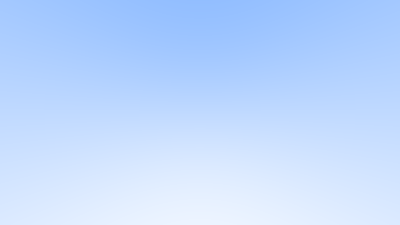
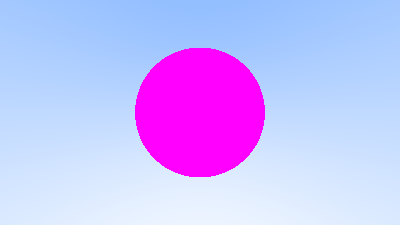
added a sphere to the scene

Changed region(s): [[0.33, 0.1867, 0.66, 0.8089]]

diff --git a/src/scenes/ray_sphere.rs b/src/scenes/ray_sphere.rs
@@ -1,0 +1,97 @@
+use crate::math;
+use crate::vec3::{Color, Point3, Vec3};
+use crate::ray::Ray;
+use image::ImageBuffer;
+
+pub fn ray_sphere() -> ImageBuffer<image::Rgb<u8>, Vec<u8>> {
+    let aspect_ratio = 16./9.;
+    let image_width: u32 = 400;
+    
+    // calc img height, it has to be at least 1 px
+    let image_height = (image_width as f32 / aspect_ratio) as u32;
+    let image_height = if image_height > 0 { image_height } else { 1 };
+
+
+    // Camera
+    // real aspect ratio differs because of flooring when converting to a u32
+    let real_aspect_ratio = image_width as f32 / image_height as f32;
+    let viewport_height = 2.0f32;
+    // 
+    let viewport_width = viewport_height * (real_aspect_ratio);
+    let focal_length = 1.0f32;
+    let camera_pos = Point3::new(0., 0., 0.);
+
+    // direction to render pixels in
+    let viewport_x = Vec3::new(viewport_width, 0., 0.);
+    let viewport_y = Vec3::new(0., -viewport_height, 0.); // invert viewport height to start top and go to bottom
+
+    // distance between pixel center points
+    let px_dx = viewport_x / image_width as f32;
+    let px_dy = viewport_y / image_height as f32;
+
+    // calc the location of the top left pixel
+    let viewport_top_left = camera_pos - Vec3::new(0., 0., focal_length) - viewport_x/2. - viewport_y/2.;
+    let px_top_left = viewport_top_left + 0.5 * (px_dx + px_dy);
+
+    let mut imgbuf  = ImageBuffer::new(image_width, image_height);
+
+    for (x, y, px) in imgbuf.enumerate_pixels_mut() {
+        let px_center = px_top_left + x as f32 * px_dx + y as f32 * px_dy;
+        let ray_direction = px_center - camera_pos;
+        let ray = Ray::new(camera_pos,ray_direction);
+
+        let color = ray_color(&ray);
+        *px = image::Rgb(color.to_rgb());
+    }
+
+    imgbuf
+}
+
+fn ray_color(ray: &Ray) -> Color {
+    if hit_sphere(&Point3::new(0., 0., 1.0), 0.5, ray) {
+        return Color::new(1., 0., 1.);
+    }
+    
+    // background color
+    let unit_direction = ray.direction().unit();
+    let scale = 0.5 * (unit_direction.y() + 1.); // blend in the y axis, midpoint halfway down
+
+    //             // white color                           ligh blue color
+    (1. - scale) * Color::new(1., 1., 1.) + scale * Color::new(0.5, 0.7, 1.)
+}
+
+fn hit_sphere(center: &Point3, radius: f32, ray: &Ray) -> bool {
+    
+    // Eq for sphere is x^2 + y^2 + z^2 = r^2
+    // To put the sphere in an arbitrary point (C) in space is :
+    // (C_x - x)^2 + (C_y - y)^2 + (C_z - z)^2 = r^2
+    // This can be expressed in vector form:
+    // (C - P).(C - P) = r^2
+    // Where C is the center of the sphere and P is the point of origin 
+    // of the ray. We can cast the ray with P(t) = Q + td (Q = origin which is the camera, 
+    // d is direction) to get to:
+    // (C − (Q + td)).(C − (Q + td)) = r^2
+    // This can be arranged to a quardatic equation:
+    // t^2d.d − 2td.(C − Q) + (C − Q).(C − Q) − r^2 = 0
+    // Because we want to know t which gives us the distance from Q where the ray intersects
+    // the sphere, we can extract the constants:
+    // a = d.d
+    // b = -2d.(C - Q)
+    // c = (C - Q).(C - Q) - r^2
+    // Where:
+    // d -> direction of the ray
+    // Q -> origin of the ray
+    // C -> center point of the sphere
+    // r -> radius of the sphere
+    // (C - Q) -> unnormalised vector from the center of the sphere to the origin of the ray (camera)
+    // We then use the quadratic formula to find t (or discriminant to find if there is at least one 
+    // intersection in the basic, unnormaled cased)
+
+    let camera_to_center = *center - *ray.origin();
+
+    let a = ray.direction().dot(ray.direction());
+    let b = -2. * camera_to_center.dot(ray.direction());
+    let c = camera_to_center.dot(&camera_to_center) - radius * radius;
+
+    math::discriminant_intersections(a, b, c).is_some()
+}

diff --git a/src/scenes/spectrum.rs b/src/scenes/spectrum.rs
@@ -9,7 +9,7 @@ pub fn spectrum() -> ImageBuffer<image::Rgb<u8>, Vec<u8>> {
 
     for (x, y, px) in imgbuf.enumerate_pixels_mut() {
         let pixel_color = Color::new(
-            x as f32 / (IMAGE_HEIGHT - 1) as f32,
+            x as f32 / (IMAGE_WIDTH - 1) as f32,
             y as f32 / (IMAGE_HEIGHT - 1) as f32,
             0.,
         );

diff --git a/src/main.rs b/src/main.rs
@@ -3,6 +3,7 @@ mod prelude;
 mod vec3;
 mod scenes;
 mod ray;
+mod math;
 
 use vec3::Color;
 
@@ -10,7 +11,7 @@ use crate::prelude::*;
 
 fn main() -> Result<()> {
     // creating a PPM image
-    let imgbuf = scenes::ray_background();
+    let imgbuf = scenes::ray_sphere();
     imgbuf.save("image.png").unwrap();
     Ok(())
 }

diff --git a/src/math.rs b/src/math.rs
@@ -1,0 +1,14 @@
+pub fn discriminant(a: f32, b: f32, c: f32) -> f32 {
+    b * b - 4. * a * c
+}
+
+pub fn discriminant_intersections(a: f32, b: f32, c: f32) -> Option<u8> {
+    let d = discriminant(a, b, c);
+    if  d > 0. {
+        Some(2)
+    } else if d == 0. {
+        Some(1)
+    } else {
+        None
+    }
+}

diff --git a/src/vec3.rs b/src/vec3.rs
@@ -20,8 +20,8 @@ impl Vec3 {
     }
 
     // dot product 
-    pub fn dot(&self, rhs: &Vec3) -> Vec3 {
-        Vec3(self.0 * rhs.0, self.1 * rhs.1, self.2 * rhs.2)
+    pub fn dot(&self, rhs: &Vec3) -> f32 {
+        self.0 * rhs.0 + self.1 * rhs.1 + self.2 * rhs.2
     }
 
     // cross product

diff --git a/src/scenes/mod.rs b/src/scenes/mod.rs
@@ -1,4 +1,7 @@
 mod spectrum;
 mod ray_background;
+mod ray_sphere;
+
 pub use spectrum::spectrum;
 pub use ray_background::ray_background;
+pub use ray_sphere::ray_sphere;
